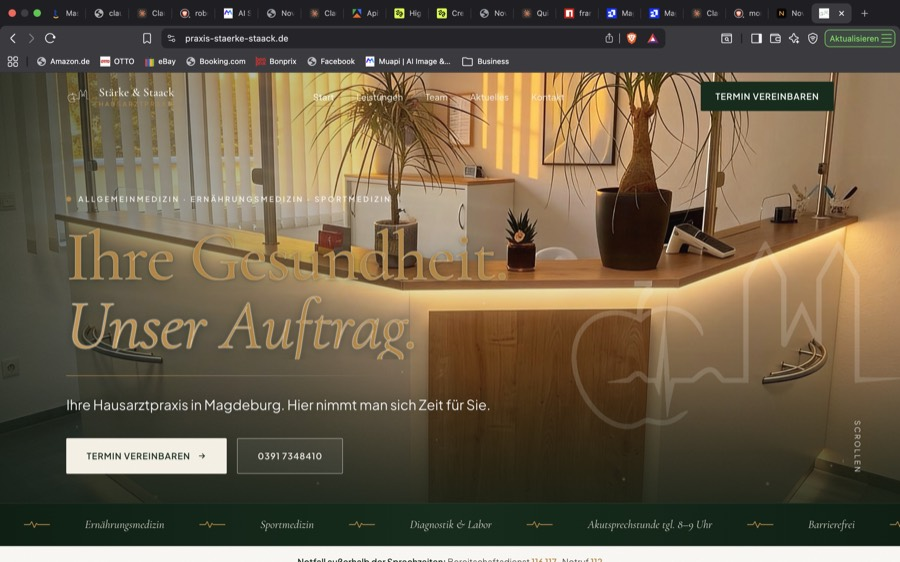
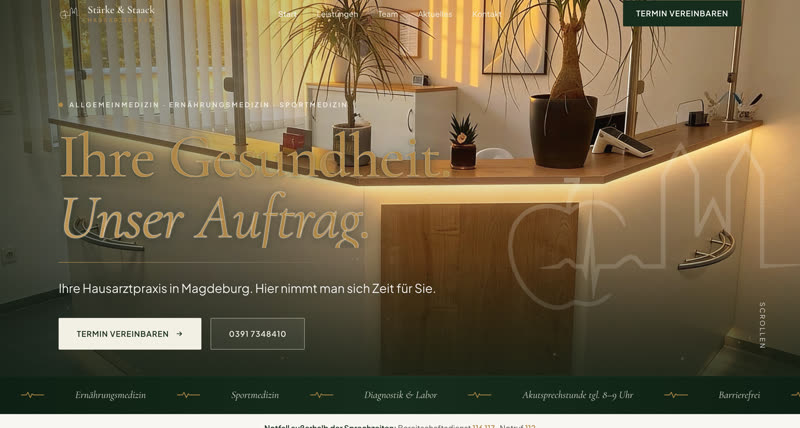
fix: linktree kompakter, Website-Foto ohne Browser-Chrome croppen
- Cover-Bild/Logo-Streifen/Badges verkleinert (kompaktere Karten)
- websitefoto.jpg: Browser-Tabs/Adressleiste rausgecroppt, nur Praxis-Foto sichtbar

diff --git a/links.html b/links.html
@@ -67,7 +67,7 @@
   .links-grid {
     display: flex;
     flex-direction: column;
-    gap: 18px;
+    gap: 12px;
   }
   .link-card {
     display: block;
@@ -87,33 +87,33 @@
   }
   .link-card .cover {
     width: 100%;
-    aspect-ratio: 16 / 9;
+    aspect-ratio: 21 / 8;
     object-fit: cover;
     display: block;
     background: var(--grün);
   }
   .link-card .cover.logo-cover {
-    aspect-ratio: 21 / 9;
+    aspect-ratio: 4 / 1;
     object-fit: contain;
-    padding: 14px 0;
+    padding: 8px 0;
   }
   .link-card .row {
     display: flex;
     align-items: center;
-    gap: 14px;
-    padding: 14px 18px;
+    gap: 12px;
+    padding: 11px 16px;
   }
   .link-card .badge {
-    width: 40px;
-    height: 40px;
-    border-radius: 10px;
+    width: 32px;
+    height: 32px;
+    border-radius: 8px;
     display: flex;
     align-items: center;
     justify-content: center;
     flex-shrink: 0;
     background: #f4f0e5;
   }
-  .link-card .badge svg { width: 22px; height: 22px; }
+  .link-card .badge svg { width: 18px; height: 18px; }
   .link-card .content { flex: 1; }
   .link-card .label {
     font-size: 0.75rem;
@@ -158,9 +158,9 @@
   }
   @media (max-width: 480px) {
     main { padding: 24px 16px; }
-    .link-card .row { padding: 12px 14px; }
-    .link-card .badge { width: 36px; height: 36px; }
-    .link-card .badge svg { width: 20px; height: 20px; }
+    .link-card .row { padding: 10px 14px; }
+    .link-card .badge { width: 30px; height: 30px; }
+    .link-card .badge svg { width: 17px; height: 17px; }
   }
 </style>
 <link rel="preconnect" href="https://fonts.googleapis.com">
@@ -180,7 +180,7 @@
 
   <div class="links-grid">
     <a class="link-card" href="https://praxis-staerke-staack.vercel.app/" target="_blank" rel="noopener">
-      <img class="cover" src="images/websitefoto.jpg" alt="Empfang der Praxis Stärke &amp; Staack" width="800" height="450" loading="eager" fetchpriority="high">
+      <img class="cover" src="images/websitefoto.jpg" alt="Empfang der Praxis Stärke &amp; Staack" width="800" height="428" loading="eager" fetchpriority="high">
       <div class="row">
         <div class="badge">
           <svg viewBox="0 0 24 24" fill="none" stroke="#0f2d1c" stroke-width="2.2" stroke-linecap="round" stroke-linejoin="round">
